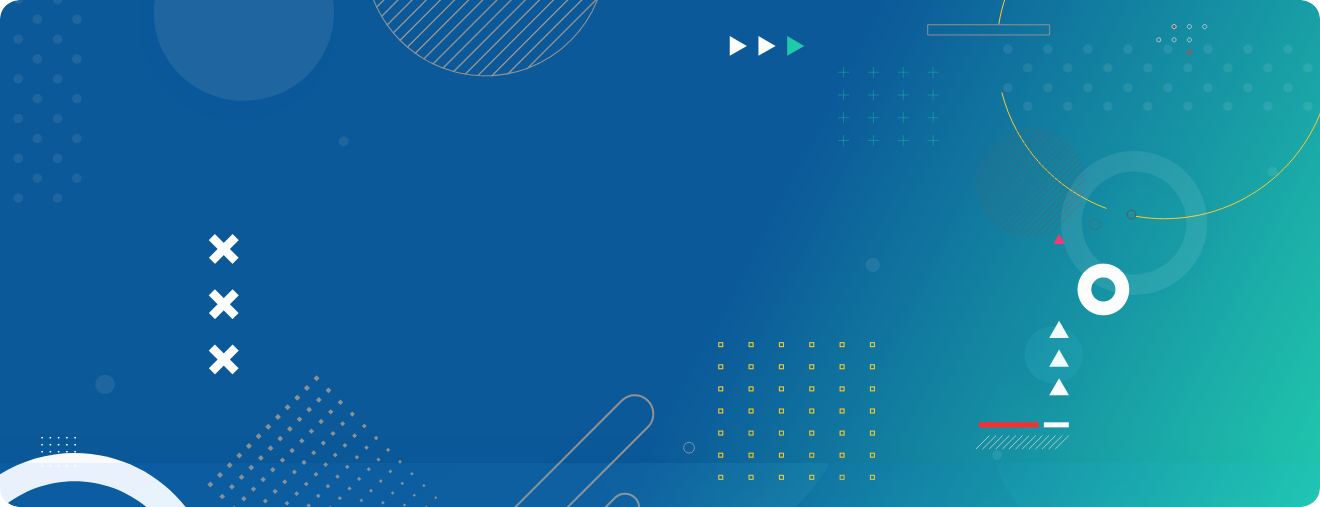
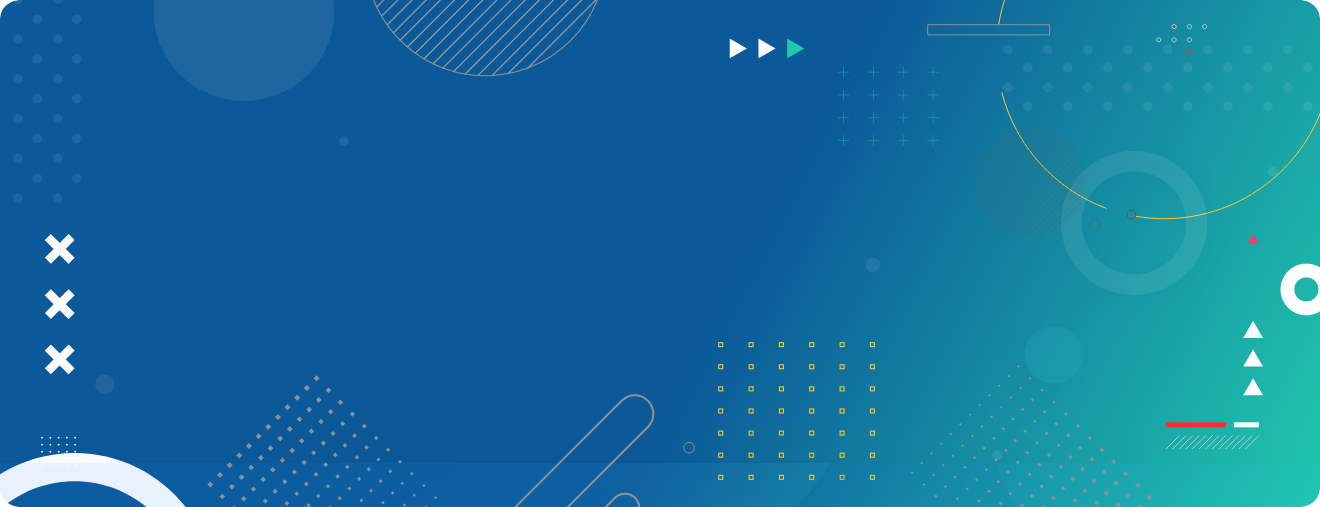
Ajustes

diff --git a/src/views/Tema1.vue b/src/views/Tema1.vue
@@ -13,7 +13,7 @@
         .cajon.color-acento-botones.p-4.mt-4
           .row.justify-content-center.align-items-center
             .col-lg-4
-              img(src='@/assets/curso/temas/tema1/tema1-img-01.svg', alt='Texto que describa la imagen')
+              img(src='@/assets/curso/temas/tema1/tema1-img-01.svg', alt='Texto que describa la imagen').tam-movil-img
             .col-lg-8
               p.mb-3 Antes de continuar, respondamos la siguiente pregunta: ¿qué es el proceso de integración continua?
               p Es una práctica habitual en desarrollo de software que consiste en integrar frecuentemente mejoras en el código de un proyecto una vez han sido validadas, normalmente varias veces al día, con el objetivo de detectar errores lo antes posible.
@@ -104,7 +104,7 @@
         :style="{'background-image': `url(${require('@/assets/curso/temas/tema1/tema1-img-05.svg')})`}"
       )
       .bloque-texto-g__texto.bloque-texto-tema1-1.p-3
-        p.mb-0 Continuemos hablando un poco más sobre GitLab. La ventaja principal es que facilita notablemente el desarrollo de software ágil entre varios equipos. De esta manera, varios desarrolladores pueden trabajar simultáneamente en un proyecto y editar, por ejemplo, diferentes funciones de forma paralela. La protocolización continua de todos los procesos, garantiza que no se pierda ninguna modificación del código ni que se sobreescriba de forma no intencionada. También es posible deshacer rápidamente los cambios ya aplicados, en esta nueva tendencia del agilismo, donde las metodologías de desarrollo ágil como Scum, Kanban y XP permiten la integración del usuario en los procesos de desarrollo del producto de software. Así se garantiza que el proceso de integración se realice de manera mucho más detallada y con el cliente, teniendo en cuenta que es el protagonista en el proceso de construcción del producto.
+        p.mb-0 Continuemos hablando un poco más sobre GitLab. La ventaja principal es que facilita notablemente el desarrollo de software ágil entre varios equipos. De esta manera, varios desarrolladores pueden trabajar simultáneamente en un proyecto y editar, por ejemplo, diferentes funciones de forma paralela. La protocolización continua de todos los procesos, garantiza que no se pierda ninguna modificación del código ni que se sobreescriba de forma no intencionada. También es posible deshacer rápidamente los cambios ya aplicados, en esta nueva tendencia del agilismo, donde las metodologías de desarrollo ágil como Scum, Kanban y XP permiten la integración del usuario en los procesos de desarrollo del producto de software. Así se garantiza que el proceso de integración se realice de manera mucho más detallada y con el cliente, teniendo en cuenta que es el protagonista en el proceso de construcción del producto.<br/>
       .bloque-texto-g__texto.bloque-texto-tema1-2
         p.mb-1 Entre las funciones más importantes de GitLab se encuentran las siguientes:<br/> 
         ul.color-i

diff --git a/src/views/Tema3.vue b/src/views/Tema3.vue
@@ -90,7 +90,7 @@
     .row.justify-content-center.align-items-center.mb-4
       .col-lg-7
         .cajon.color-primario.p-4.mt-4
-          p Aunque sabemos que todos los productos fabricados deben tener la manera de poder retroalimentarse para poder crecer y establecerse en un mercado específico, y comprendiendo que el software es un producto que requiere de la integración con el usuario y que mediante esa operación puedan surgir nuevas necesidades que a su vez se conviertan en requerimientos para ser incluidas en las próximas versiones del sistema, se hace necesario que se creen los mecanismos para que el usuario participe de una manera más activa en el proceso de construcción y mejora del producto, porque esto permitirá que nuestro sistema perdure por mucho más tiempo en el mercado.
+          p #[b Aunque sabemos que todos los productos fabricados deben tener la manera de poder retroalimentarse para poder crecer y establecerse en un mercado específico, y comprendiendo que el #[i software] es un producto que requiere de la integración con el usuario y que mediante esa operación puedan surgir nuevas necesidades que a su vez se conviertan en requerimientos para ser incluidas en las próximas versiones del sistema, se hace necesario que se creen los mecanismos para que el usuario participe de una manera más activa en el proceso de construcción y mejora del producto, porque esto permitirá que nuestro sistema perdure por mucho más tiempo en el mercado].
       .col-lg-5
         img(src='@/assets/curso/temas/tema3/tema3-img-09.svg', alt='Texto que describa la imagen')
 
@@ -165,7 +165,10 @@
               .col-md-6
                 figure
                   img(src='@/assets/curso/temas/tema3/tema3-img-14.svg', alt='Texto que describa la imagen')            
-
+  
+  .row.justify-content-center.align-items-center
+    .col-lg-10
+      p Recuerde explorar los demás recursos que se encuentran disponibles en este componente formativo; para ello, diríjase al menú principal donde encontrará la síntesis, una actividad didáctica para reforzar los conceptos estudiados, material complementario, entre otros.
 
 
 

diff --git a/src/styles/_custom.sass b/src/styles/_custom.sass
@@ -12,8 +12,26 @@
 
 .banner-principal__img
   position: relative
-  top: 48px
-  left: -33px
+  top: -57px
+  width: 35%
+  left: -92px
+
+.banner-principal .tarjeta 
+  height: 438px 
+
+.banner-principal__info 
+  position: relative
+  top: -88px
+  left: 37px 
+
+.banner-principal__descripcion 
+  position: relative
+  top: 15px  
+  margin-right: 7rem
+
+.banner-principal__accion    
+  position: relative
+  top: 75px
 
 .banner-interno__fondo
   background-image: url("../assets/curso/portada/fondo-banner-principalt.png") !important
@@ -29,6 +47,13 @@
 
 //tema1
 
+.tam-movil-img
+  @media (max-width: 500px)
+    position: relative
+    width: 60%    
+    left: 60px
+
+
 .clr-background-1
   position: relative
   width: 100% 
@@ -37,6 +62,8 @@
   background-position: left top
   background-repeat: no-repeat   
   height: 370px
+  @media (max-width: 500px)
+    height: 230px
 
 .margin-puntos 
   top: 70px
@@ -54,6 +81,7 @@
       color:#12263F  
   .img-infografica__card
     width: 1065px
+    z-index: 2
     @media (max-width: 500px)
       width: 373px
       height: 245px
@@ -67,7 +95,7 @@
 
 .color-i
   li
-    i
+    i.fas.fa-play
       color: #EF3C79!important    
 
 .bloque-texto-img1-1
@@ -119,7 +147,6 @@
 .tam-tarjeta-color      
   height: 615px
   @media (max-width:500px) 
-    margin-top:35.5rem!important
     height: 1205px    
     background-color: $white        
 
@@ -129,9 +156,12 @@
   cursor: auto
   width: 95%
 
-.posicion-avatar  
-  top: -79px
+.posicion-avatar 
   position: relative
+  top: -79px
+  @media (max-width: 500px)  
+    left: 10px
+    width: 83%
 
 .posicion-txt-tar
   top: -86px
@@ -297,6 +327,10 @@
   @media (max-width: 500px)
     height: 1290px
 
+
+
+.boton
+  background-color: #F4CE59
 
 @keyframes float1
   0%

diff --git a/src/views/Tema2.vue b/src/views/Tema2.vue
@@ -126,11 +126,19 @@
     .row.justify-content-center.align-items-center.mt-5
       .col-lg-7
         p.mb-4 Por ejemplo, supongamos que tiene una tabla denominada Productos y otra tabla denominada Servicios. Ambas tablas tienen campos que contienen el nombre del producto o servicio, el precio, la disponibilidad de garantía del servicio o de garantía del producto, y si el producto o servicio se ofrece de forma exclusiva. Aunque en la tabla Productos se almacena información de garantía del producto y en la tabla Servicios se almacena información de garantía del servicio, la información básica es la misma (si un producto o servicio determinado incluye una garantía de calidad). Puede usar una consulta de unión, como la que se muestra a continuación, para combinar los cuatro campos de las dos tablas:
-        p.mb-0 SELECT name, price, warranty_available, exclusive_offer
-        p.mb-0 FROM Products
-        p.mb-0 UNION ALL
-        p.mb-0 SELECT name, price, guarantee_available, exclusive_offer
-        p.mb-4 FROM Services
+        ul.color-i.mb-4
+          li
+            i.fas.fa-play
+            | SELECT <i>name, price, warranty_available, exclusive_offer</i> <br/>
+            i.fas.fa-play
+            | FROM <i>Products</i> <br/> 
+            i.fas.fa-play
+            | UNION ALL <br/> 
+            i.fas.fa-play
+            | SELECT <i>name, price, guarantee_available, exclusive_offer</i> <br/> 
+            i.fas.fa-play
+            | FROM <i>Services</i>  <br/> 
+
         p Como podemos observar, las consultas nos permiten recuperar la información que se encuentra dentro de la base de datos y luego poder realizar los procedimientos requeridos por la organización.
 
       .col-lg-5

diff --git a/src/views/Actividad.vue b/src/views/Actividad.vue
@@ -14,7 +14,7 @@
           figure
             img(src="@/assets/template/arrastrar-soltar.svg", alt="Texto que describa la imagen")
       .col-12.col-md-8.col-lg-9
-        .titulo-segundo
+        .titulo-segundo.color-acento-botones
           h2 Arrastrar soltar
         p.mb-4 Esta actividad le permitirá determinar el grado de apropiación de los contenidos del componente formativo. De acuerdo con la definición planteada en la columna izquierda, arrastre cada término al lugar que considere correcto de la columna derecha.
         .tarjeta.actividad.p-3
